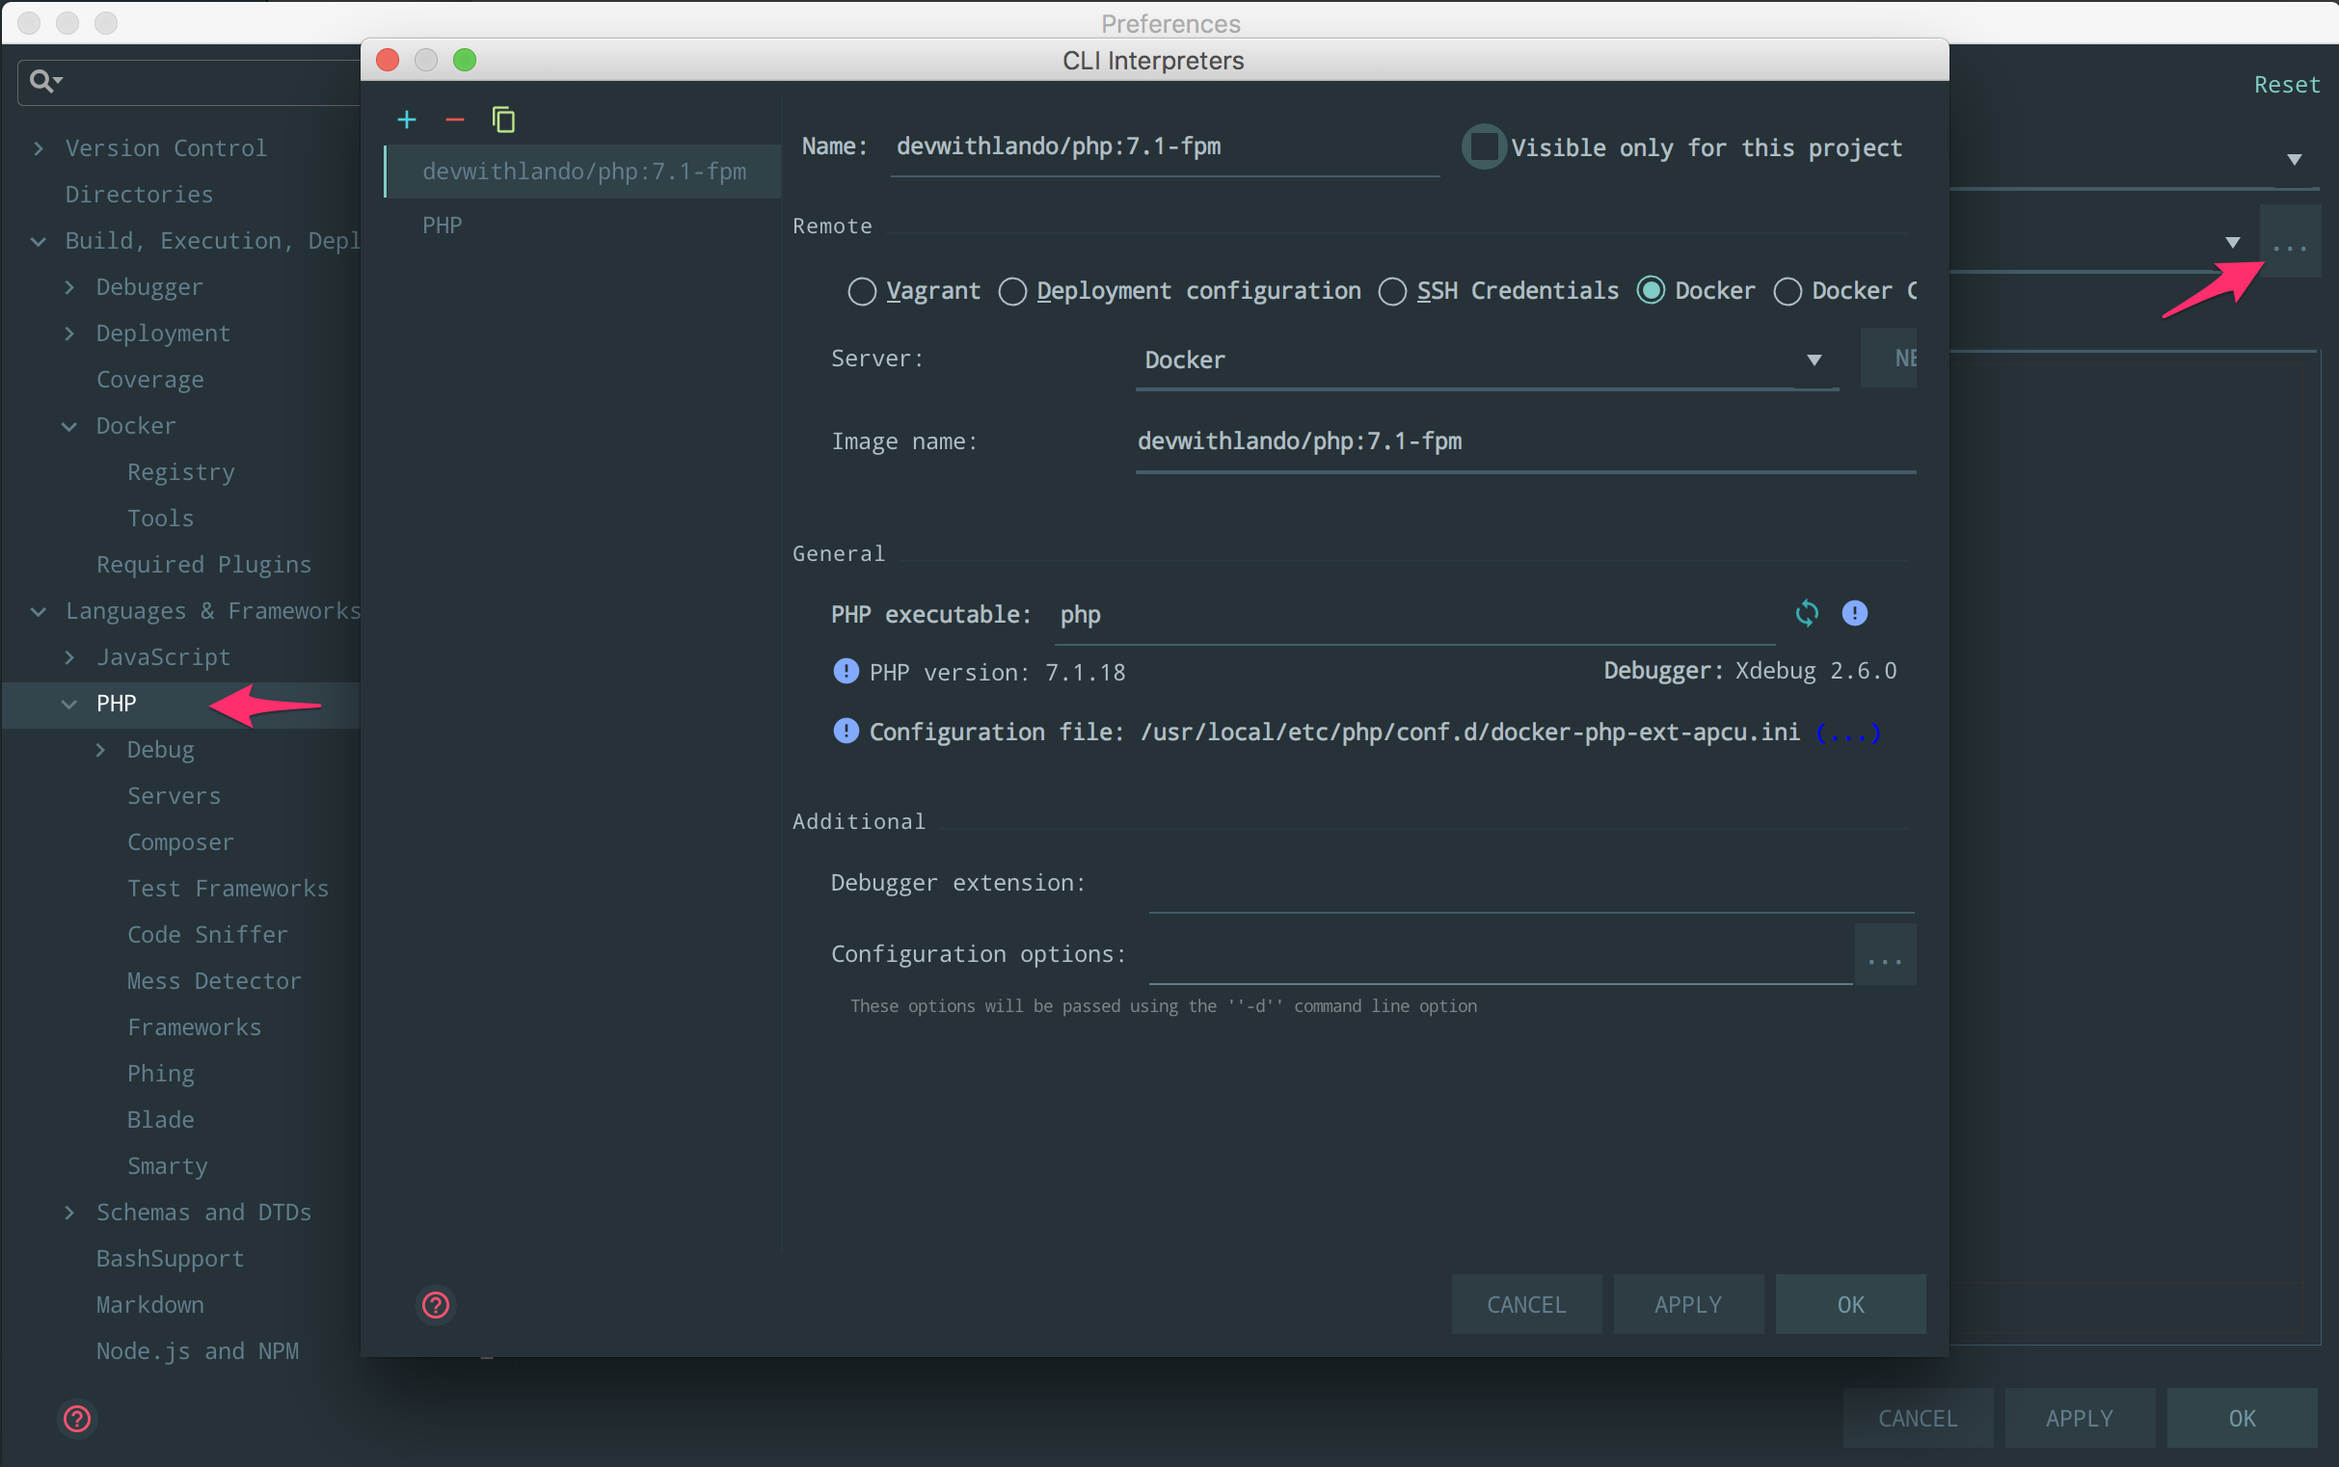
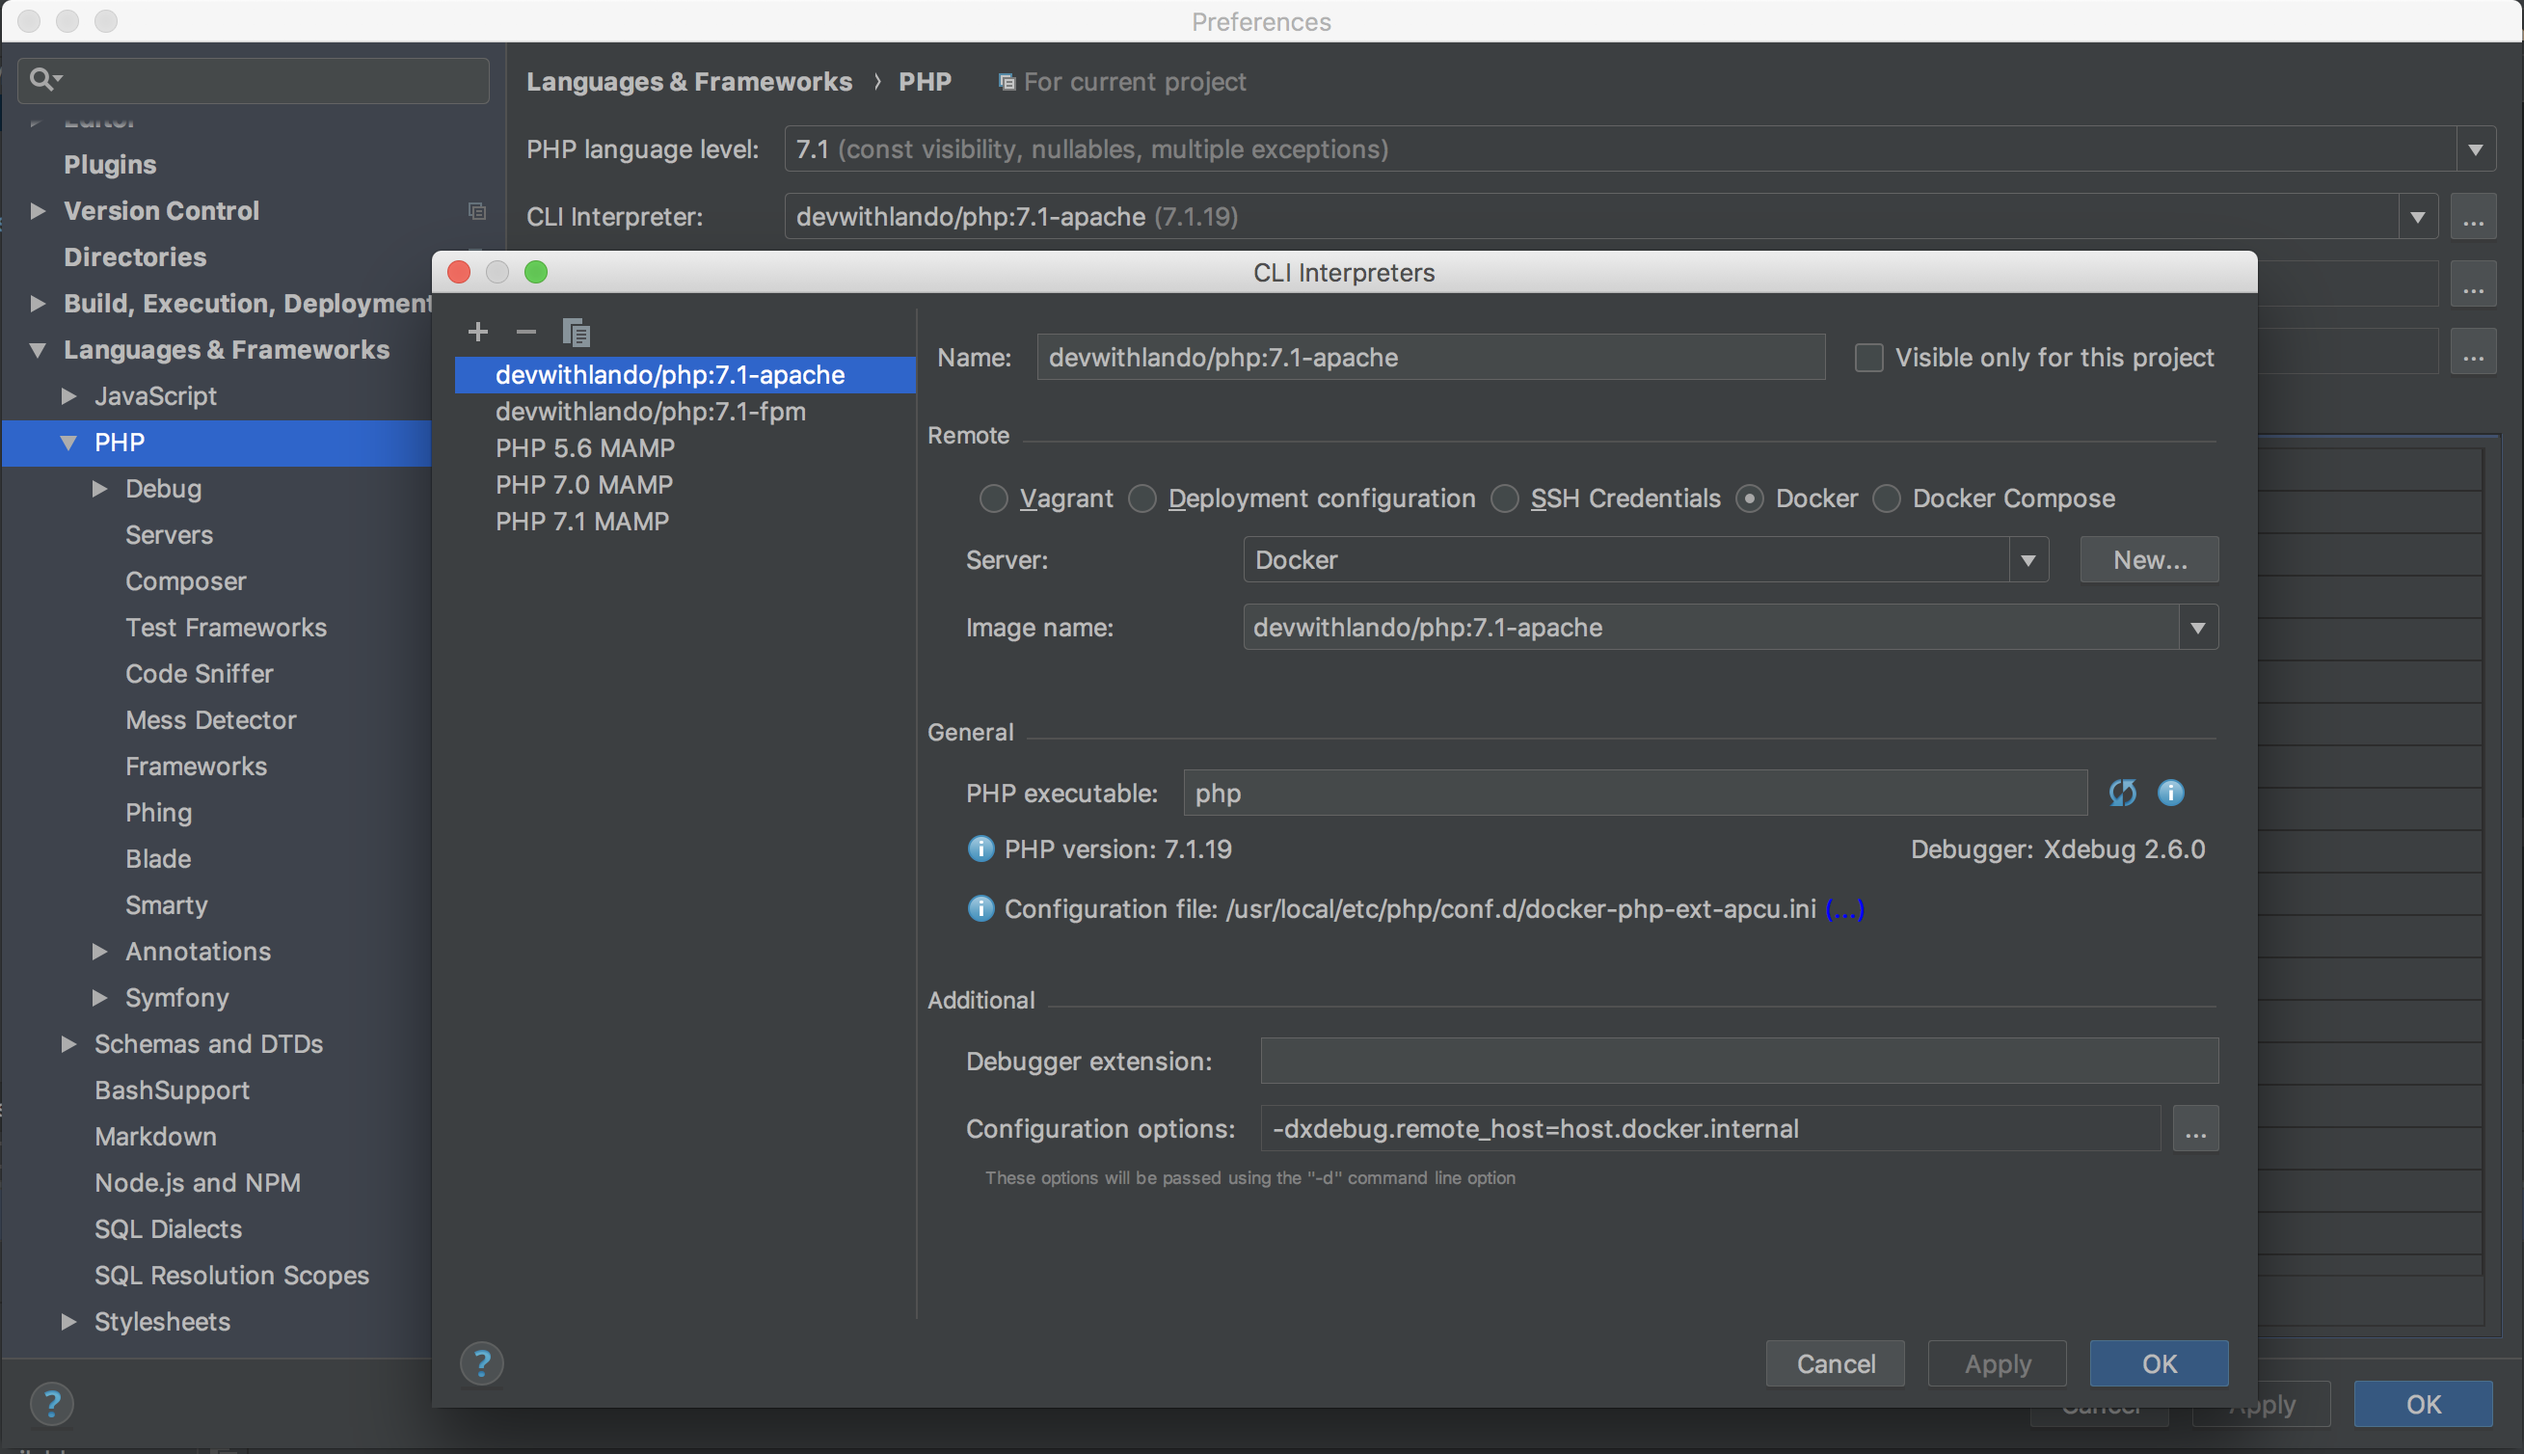
doc improvements

diff --git a/README.md b/README.md
@@ -31,25 +31,26 @@ NNNB: Sometimes testing becomes very slow. It can help to restart docker, or eve
 The test output files can be found in various locations under the /files directory.
 
 ### Running tests and debugging in PHPStorm: check your PHPStorm debug settings:
-- register Docker so you can register its PHP interpreter: Preferences > Build, Execution, Deployment > Docker ![docker](README.images/docker.png)
-- register the CLI PHP interpreter from Docker so you can use its debugger: Preferences > Languages & Frameworks > PHP ![cli-interpreters](README.images/cli-interpreters.png)
-- configure the PHP debug settings, especially the max simultaneous connections: Preferences > Languages & Frameworks > PHP > Debug ![debug](README.images/debug.png)
-- configure a server with path mappings so PHPStorm knows where you are when debugging. Make sure the server is named appserver and you map the top level path to /app: Preferences > Languages & Frameworks > PHP > Servers ![server-path-mappings](README.images/server-path-mappings.png)
-- configure the test framework so PHPStorm can run tests using the PHPStorm GUI (right click a test and select "run"). Add a PHPUnit by Remote Interpreter and choose the Docker interpreter. Make sure you set the config file and bootstrap file using paths that are local to the PHPStorm docker helper container as shown: Preferences > Languages & Frameworks > PHP > Test Frameworks ![test-framework](README.images/test-framework.png)
+- Register Docker so you can register its PHP interpreter: Preferences > Build, Execution, Deployment > Docker ![docker](README.images/docker.png)
+- Register the CLI PHP interpreter from Docker so you can use its debugger: Preferences > Languages & Frameworks > PHP, then click the '...' button after CLI Interpreter, then add a new From Docker interpreter from the correct Docker image ![cli-interpreters](README.images/cli-interpreters.png)
+- Configure the PHP debug settings, especially the max simultaneous connections: Preferences > Languages & Frameworks > PHP > Debug ![debug](README.images/debug.png)
+- Configure a server with path mappings so PHPStorm knows where you are when debugging. Make sure the server is named 'appserver' and you map the top level path to '/app': Preferences > Languages & Frameworks > PHP > Servers ![server-path-mappings](README.images/server-path-mappings.png)
+- Configure the test framework so PHPStorm can run tests using the PHPStorm GUI (right click a test and select "run"). Add a PHPUnit by Remote Interpreter and choose the Docker interpreter. Make sure you set the config file and bootstrap file using paths that are local to the PHPStorm docker helper container as shown: Preferences > Languages & Frameworks > PHP > Test Frameworks ![test-framework](README.images/test-framework.png)
 
-In PHPStorm try to right-click a test function and select 'run'. Running tests via the PHPStorm GUI currently only works with Unittests and Kerneltests.
+In PHPStorm try to right-click a test function and select 'run'. Running tests via the PHPStorm GUI currently only works with Unit and Kernel tests.
 
 Try and enable your debug listener in PHPStorm, setting a breakpoint in a test and running a test (CLI or GUI). You should now be able to debug your tests. 
 
 ### The files in this package do the following:
 - **.lando.yml**: the lando file that spins up the apache/php/database containers and set some defaults. Here the init.sh script is called after the containers are up.
 - **config/init.sh**: this script (shallow) clones the Drupal git repository to the /web dir, and checks out the default branch. Then composer install runs to complete the vendor dir. It upgrades the phpunit version to work with PHP 7.1, and installs Drush, Drupal Console and Selenium. It creates dirs for file operations in /files. It links config/sites.default.settings.php into the Drupal installation so base setup is automatic. Then it runs drush site-install to setup a working installation. Lastly it configures phpunit.xml for testing. 
+- **config/linux-hosts.sh**: The hostname host.docker.internal resolves to the host machine from a container in Docker for Mac and Windows, but not Linux. This script adds this name to the hosts file.
 - **config/sites.default.settings.php**: this settings file contains development defaults for Drupal 8. It connects to the lando database container.
 - **run-selenium.sh**: this script sets the correct Chrome drive path and launches the project-local standalone Selenium server.
 
 
 ## Future imporvements
-- run tests via PHPStorm GUI
+- run functional and fjs tests via PHPStorm GUI
 - find out why we cannot use phpunit 7
 - export and import PHPStorm settings
 - enable Test module by default
